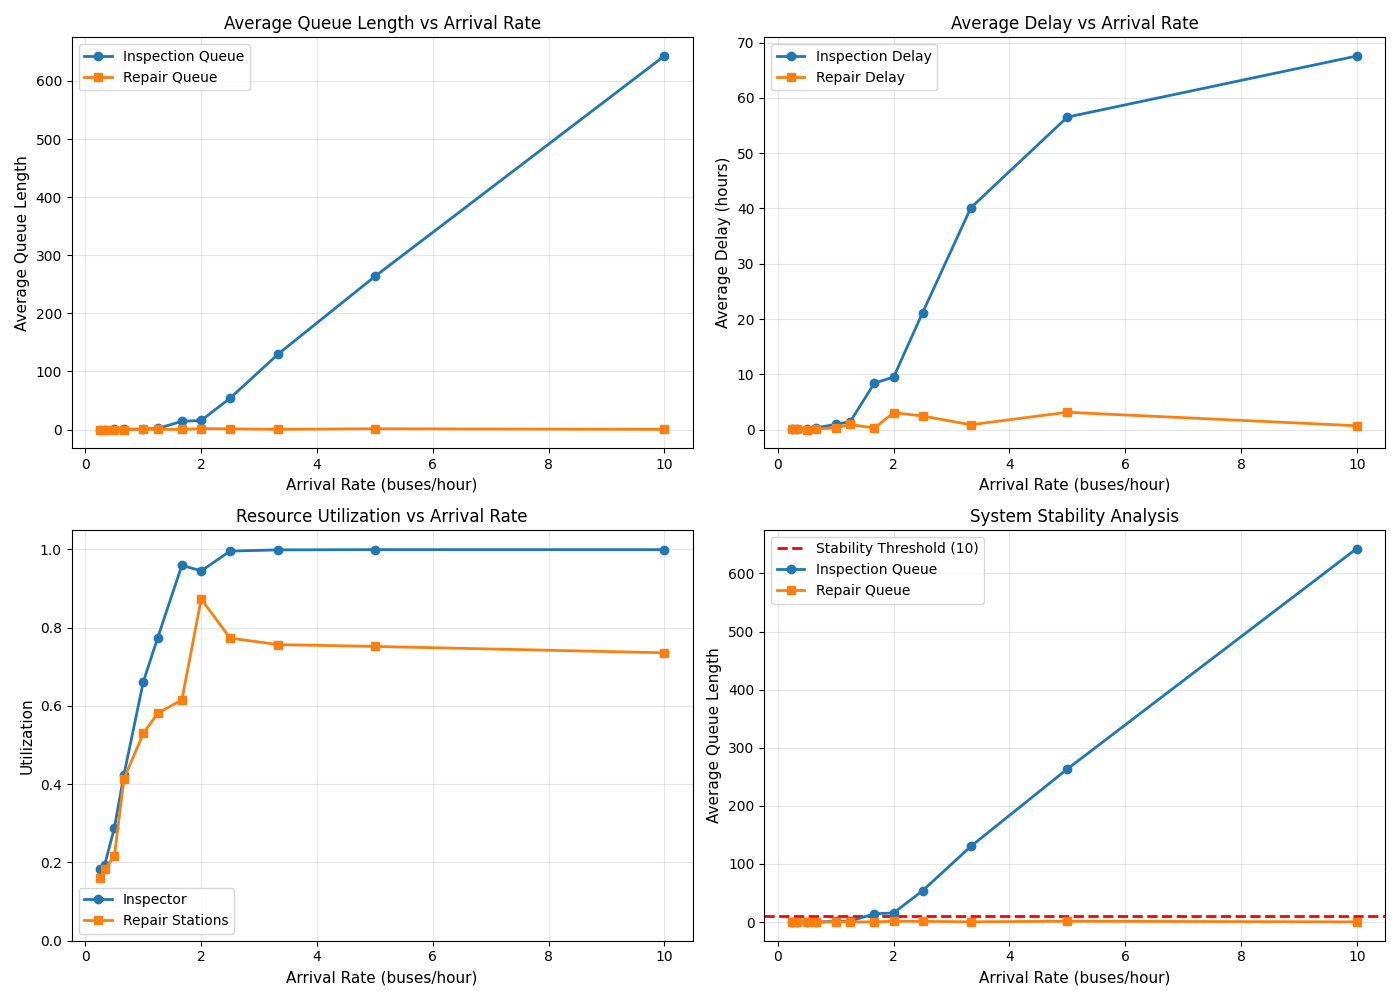
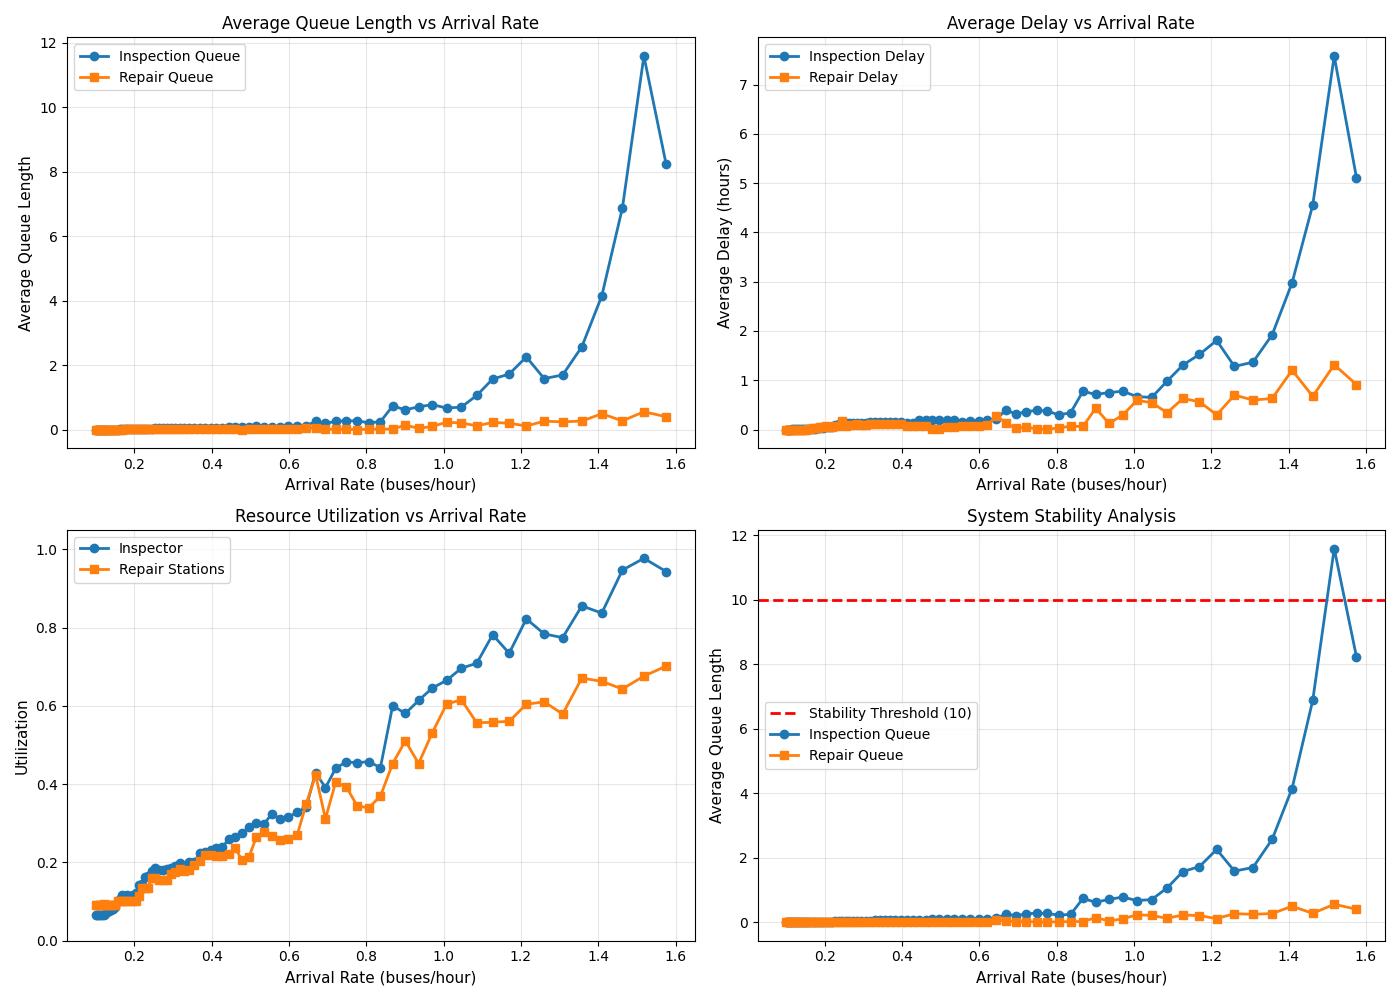
Feat: Enhance arrival rate experiment with stability checks and configurable parameters

diff --git a/src/bus/experiments.py b/src/bus/experiments.py
@@ -4,18 +4,59 @@ Experiments for determining system stability and capacity.
 import numpy as np
 from .config import SimConfig
 from .simulation import BusMaintenanceSimulation
-from .visualization import plot_experiment_results
 
 
-def run_arrival_rate_experiment(base_config, rates=None):
-    """Run simulations with different arrival rates to find capacity limit"""
-    if rates is None:
-        rates = [1/r for r in [4.0, 3.0, 2.0, 1.5, 1.0, 0.8, 0.6, 0.5, 0.4, 0.3, 0.2, 0.1]]
+def is_system_stable(result, queue_threshold=10, delay_threshold=5.0, util_threshold=0.90):
+    """Determine if the system is stable based on multiple criteria
     
+    Args:
+        result: Simulation result dictionary
+        queue_threshold: Maximum acceptable average queue length
+        delay_threshold: Maximum acceptable average delay in hours
+        util_threshold: Maximum acceptable resource utilization
+        
+    Returns:
+        bool: True if system is considered stable, False otherwise
+    """
+    # Check queue lengths
+    queue_stable = (result['avg_inspection_queue_length'] < queue_threshold and
+                    result['avg_repair_queue_length'] < queue_threshold)
+    
+    # Check waiting times
+    delay_stable = (result['avg_inspection_delay'] < delay_threshold and
+                    result['avg_repair_delay'] < delay_threshold)
+    
+    # Check resource utilization
+    util_stable = (result['inspection_utilization'] < util_threshold and
+                   result['repair_utilization'] < util_threshold)
+    
+    return queue_stable and delay_stable and util_stable
+
+
+def run_arrival_rate_experiment(base_config, min_rate=0.1, max_rate=4.0, num_points=100):
+    """Run simulations with different arrival rates to find capacity limit
+    
+    Args:
+        base_config: Base simulation configuration
+        min_rate: Minimum arrival rate to test (buses/hour)
+        max_rate: Maximum arrival rate to test (buses/hour)
+        num_points: Number of test points between min and max
+    """
+    # Generate rates with more points near the critical threshold
+    # Logarithmic spacing for better distribution
+    rates = np.logspace(np.log10(min_rate), np.log10(max_rate), num_points)
+    # Sort in ascending order to find stable rates first
+    rates = sorted(rates)
+        
     results = []
+    unstable_count = 0
     
     for rate in rates:
         config = SimConfig(**vars(base_config))
+        # Use a longer simulation time for rates approaching capacity limits
+        if len(results) > 0 and results[-1]['inspection_utilization'] > 0.8:
+            config.simulation_time = max(config.simulation_time, 320.0)  # Increase simulation time
+            
         config.arrival_mean = 1/rate  # Convert rate to mean interarrival time
         
         print(f"Running simulation with arrival rate: {rate:.3f} buses/hour")
@@ -23,21 +64,39 @@ def run_arrival_rate_experiment(base_config, rates=None):
         result = sim.run()
         result['arrival_rate'] = rate
         results.append(result)
-    
-    # Determine the maximum stable arrival rate
-    max_stable_rate = None
-    for result in results:
-        is_stable = (result['avg_inspection_queue_length'] < 10 and 
-                    result['avg_repair_queue_length'] < 10)
+        
+        # Use comprehensive stability test
+        stable = is_system_stable(result)
         
         print(f"Rate: {result['arrival_rate']:.3f} buses/hour - "
-              f"Stable: {is_stable} - "
+              f"Stable: {stable} - "
               f"Insp. util: {result['inspection_utilization']:.2f} - "
               f"Repair util: {result['repair_utilization']:.2f} - "
               f"Insp. queue: {result['avg_inspection_queue_length']:.2f} - "
               f"Repair queue: {result['avg_repair_queue_length']:.2f}")
         
-        if is_stable and (max_stable_rate is None or result['arrival_rate'] > max_stable_rate['rate']):
+        # Early stopping if multiple consecutive unstable points are detected
+        if not stable:
+            unstable_count += 1
+        else:
+            unstable_count = 0
+            
+        # If 3 unstable points in a row were found and have at least 10 data points, stop the experiment
+        # This is a heuristic to avoid running too many simulations after the system has clearly become unstable
+        if unstable_count >= 3 and len(results) >= 10:
+            print("Multiple consecutive unstable points detected, stopping experiment")
+            break
+            
+        # Also stop if we see extreme instability at any point
+        if result['avg_inspection_queue_length'] > 30 or result['avg_repair_queue_length'] > 30:
+            print("Extreme queue buildup detected, stopping experiment")
+            break
+    
+    # Determine the maximum stable arrival rate
+    max_stable_rate = None
+    for result in results:
+        # Use the comprehensive stability test
+        if is_system_stable(result) and (max_stable_rate is None or result['arrival_rate'] > max_stable_rate['rate']):
             max_stable_rate = {
                 'rate': result['arrival_rate'],
                 'inspection_util': result['inspection_utilization'],
@@ -50,9 +109,8 @@ def run_arrival_rate_experiment(base_config, rates=None):
         print(f"\nMaximum stable arrival rate: {max_stable_rate['rate']:.3f} buses/hour")
         print(f"At maximum stable rate - Inspection utilization: {max_stable_rate['inspection_util']:.2f}, " 
               f"Repair utilization: {max_stable_rate['repair_util']:.2f}")
+        print(f"Equivalent mean interarrival time: {1/max_stable_rate['rate']:.3f} hours")
     else:
         print("\nNo stable arrival rate found in the tested range.")
-    
-    # Plot experiment results (now handled by main.py)
     
     return results, max_stable_rate

diff --git a/src/bus/main.py b/src/bus/main.py
@@ -8,7 +8,7 @@ import sys
 # Add parent directory to path for imports
 sys.path.append(os.path.dirname(os.path.dirname(os.path.abspath(__file__))))
 
-from bus.config import load_config, SimConfig
+from bus.config import load_config
 from bus.simulation import BusMaintenanceSimulation
 from bus.visualization import plot_results, plot_experiment_results, save_report
 from bus.experiments import run_arrival_rate_experiment
@@ -17,11 +17,22 @@ from bus.experiments import run_arrival_rate_experiment
 def main():
     """Main function to parse arguments and run the simulation"""
     parser = argparse.ArgumentParser(description='Bus Maintenance Facility Simulation')
-    parser.add_argument('--config', type=str, help='Path to configuration file')
-    parser.add_argument('--time', type=float, help='Simulation time in hours')
-    parser.add_argument('--seed', type=int, help='Random seed')
-    parser.add_argument('--output', type=str, help='Output directory for results')
-    parser.add_argument('--experiment', action='store_true', help='Run arrival rate experiment')
+    parser.add_argument('--config', type=str, 
+                        help='Path to configuration file')
+    parser.add_argument('--time', type=float, 
+                        help='Simulation time in hours')
+    parser.add_argument('--seed', type=int, 
+                        help='Random seed')
+    parser.add_argument('--output', type=str, 
+                        help='Output directory for results')
+    parser.add_argument('--experiment', action='store_true', 
+                        help='Run arrival rate experiment')
+    parser.add_argument('--min-rate', type=float, default=0.1, 
+                        help='Minimum arrival rate to test (buses/hour)')
+    parser.add_argument('--max-rate', type=float, default=4.0, 
+                        help='Maximum arrival rate to test (buses/hour)')  
+    parser.add_argument('--num-points', type=int, default=100,
+                        help='Number of test points for arrival rate experiment')
     args = parser.parse_args()
     
     # Load configuration
@@ -40,7 +51,12 @@ def main():
     
     if args.experiment:
         print("Running arrival rate experiment to find capacity limits...")
-        results, max_stable_rate = run_arrival_rate_experiment(config)
+        results, max_stable_rate = run_arrival_rate_experiment(
+            config, 
+            min_rate=args.min_rate, 
+            max_rate=args.max_rate,
+            num_points=args.num_points
+        )
         if max_stable_rate:
             print("\nExperiment Results Summary:")
             print(f"Maximum stable arrival rate: {max_stable_rate['rate']:.3f} buses/hour")
